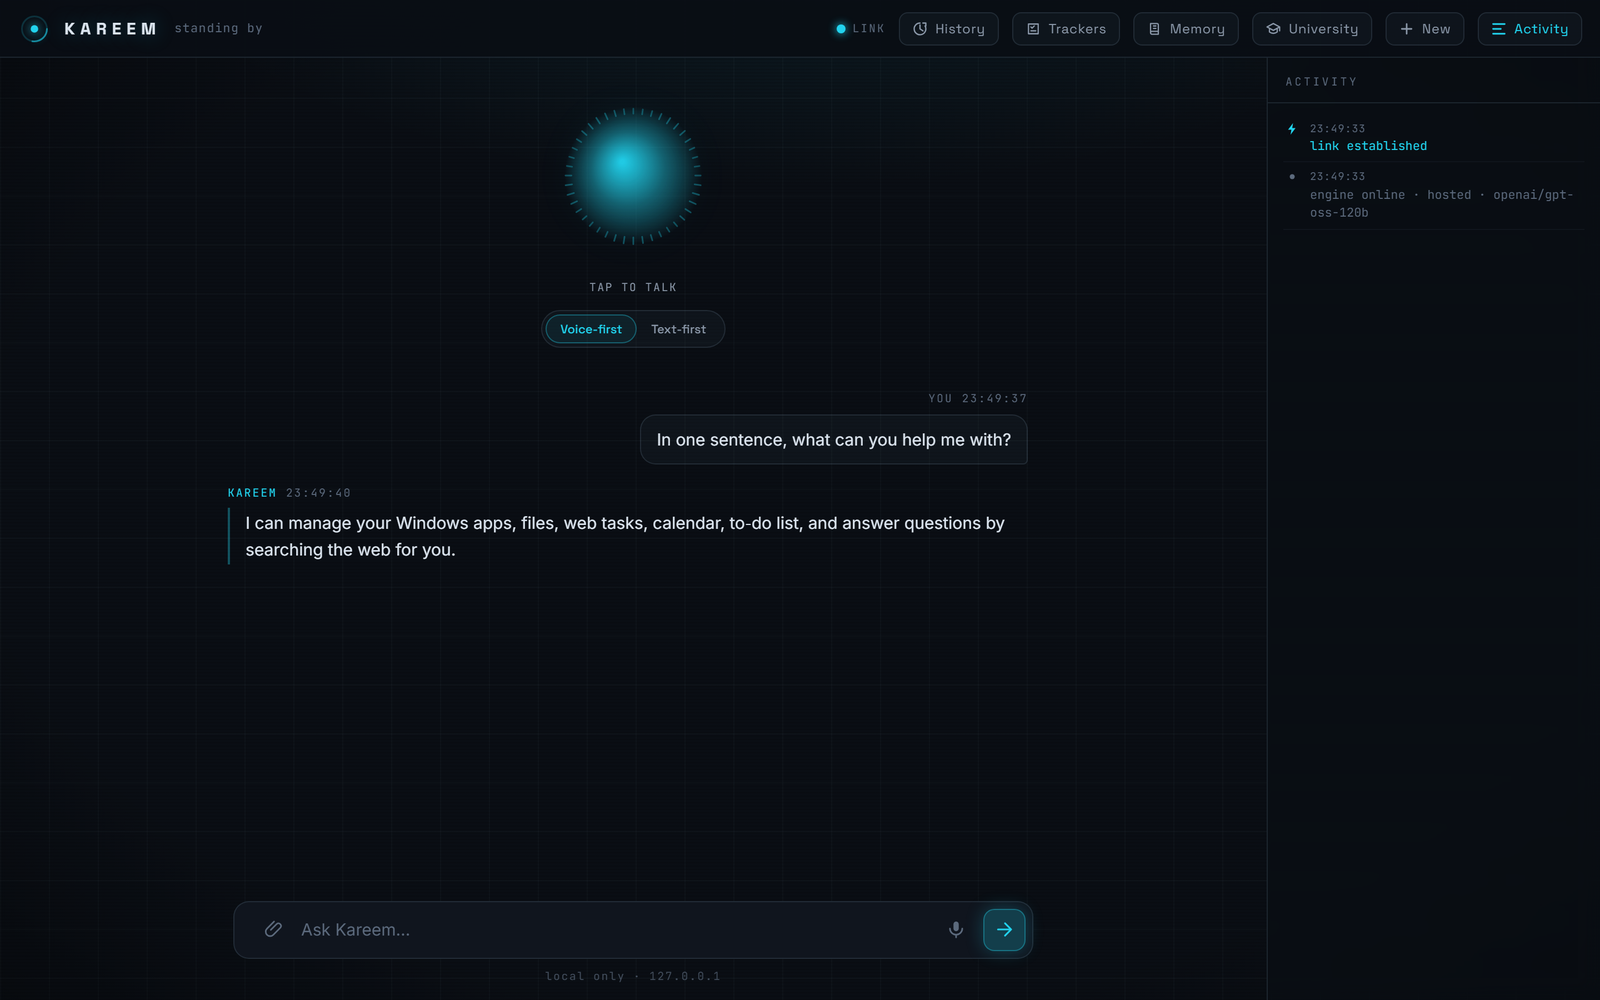
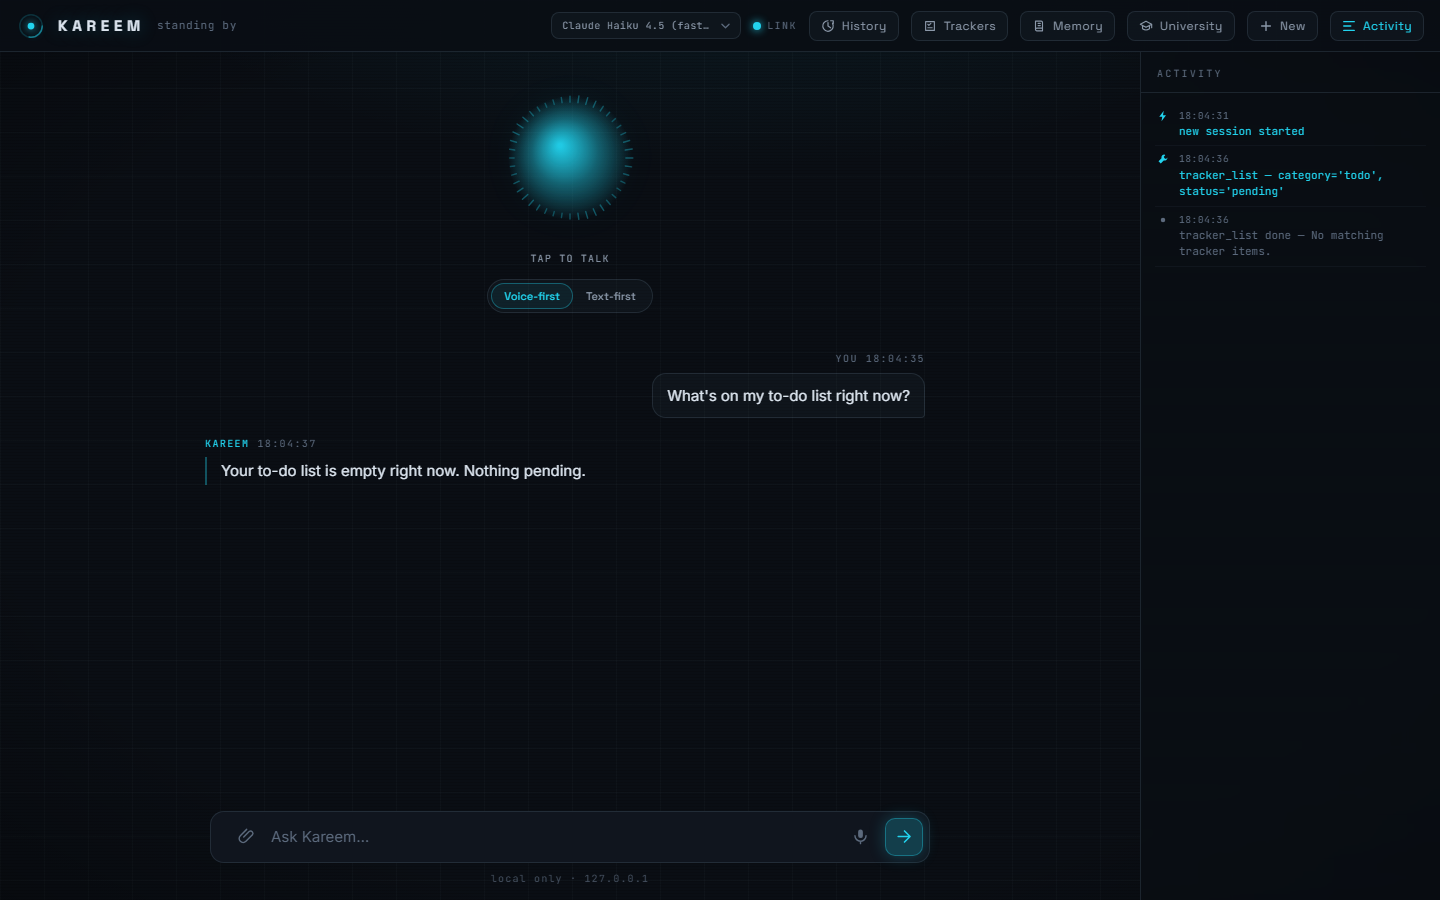
README: current screenshots, accurate defaults, known limitations
Pre-publish accuracy pass -- README had drifted from reality across
several sessions of changes (Claude switch, cost tracking, reconnect-
calendar, model picker, wake-word suppression).

Screenshots: all 6 recaptured live against the real running app via
Playwright (hero, chat, activity-rail, university, trackers, and a
new model-picker shot). Deliberately avoided real financial data --
the Trackers "Custom" tab has actual tuition/finance line items
pulled from GUC, too sensitive for a public screenshot, so that shot
stays on the (currently empty) To-dos tab where the real point --
the Reconnect Calendar widget -- is still fully visible. All QA-test
debris (leftover tracker items, a demo memory fact) was cleaned out
of the real data before and after capturing.

Content updates:
- Leads with Claude Haiku 4.5 as the actual default brain (was still
  describing "a free hosted cloud model" as default throughout)
- New "Switching brains from the website" section + screenshot for
  the model picker (all 5 options, live-switching, never leaves
  Kareem brainless on a bad choice)
- New "Cost tracking" section
- Reconnect Calendar button documented in the Google Calendar section
  and the data-clearing table
- Restructured the brain sections: "Claude, the default brain" (was
  "The fast free brain (the default)", still describing Groq) with
  "The free hosted brain" and "Switching to fully-local" as the two
  free alternatives underneath
[…]

diff --git a/README.md b/README.md
@@ -3,10 +3,12 @@
 ![Kareem's main screen — a dark HUD interface with a glowing cyan orb, ready to chat](docs/screenshots/hero.png)
 
 Kareem is a voice + text assistant that runs on your own PC. By default it
-thinks with a **free hosted cloud model** (fast — it runs on the provider's
-GPU, not your laptop). Two other brains are one config line away: a fully
-**offline local model** via Ollama (private, free, slower) and the **Claude
-API** (smartest, paid).
+thinks with **Claude Haiku 4.5** (Anthropic's API — smartest and most
+reliable at following instructions and picking tool parameters correctly,
+paid per use). Two other brains are one config line away — or one click in
+the web UI's model picker (top bar): a **free hosted cloud model** (fast —
+runs on the provider's GPU, not your laptop) and a fully **offline local
+model** via Ollama (private, free, slower).
 
 > **Requires Windows.** Desktop/app control, the background tray service, and
 > several voice components use Windows-specific APIs (PowerShell, Windows UI
@@ -63,6 +65,12 @@ The first calendar command opens your browser for one-time Google consent.
 Kareem then stores `token.json` locally and refreshes access silently. Both
 credential files are ignored by Git.
 
+If the connection ever expires or breaks (e.g. `token.json` gets deleted or
+Google revokes it), open the **Trackers** panel — a status pill at the top
+shows CONNECTED / EXPIRED / ERROR, with a one-click **Reconnect Calendar**
+button next to it that deletes the stale token and re-runs the consent flow.
+No need to dig through files by hand.
+
 ### GUC integration (optional, institution-specific)
 
 Kareem can automatically check CMS, the Student Portal, and Mail/OWA for new
@@ -96,8 +104,8 @@ whatever else you ask Kareem to track. Add, complete, or delete items from
 the panel, or just ask Kareem in chat ("add a to-do to…", "what's on my
 plate this week?").
 
-![The Trackers panel showing a populated custom list of real course deadlines and announcements](docs/screenshots/trackers.png)
-*A populated custom list — course deadlines and announcements Kareem pulled in automatically.*
+![The Trackers panel, showing the calendar connection status and Reconnect Calendar button above the tabs](docs/screenshots/trackers.png)
+*The calendar connection status lives right above the tabs — a one-click Reconnect Calendar button if it ever needs it.*
 
 ## Three ways to talk to it
 
@@ -108,7 +116,9 @@ plate this week?").
    a live feed of what Kareem is doing, Confirm/Cancel buttons for risky
    actions, and a mic button (browser voice — best in Chrome/Edge; replies to
    spoken messages are read aloud). Only this PC can reach it — it is never
-   exposed to the network.
+   exposed to the network. (The wake word only listens when no browser tab
+   already has the site open — if you're already looking at it, saying "hey
+   kareem" again does nothing, on purpose. The hotkey always works regardless.)
 2. **Type** in the console window (works exactly as before).
 3. **Voice in the console** — set `WAKE_OPENS_WEB = False` in
    `kareem/config.py` to make the wake word/hotkey talk out loud like it used
@@ -122,6 +132,29 @@ All three share ONE conversation — you can mix them freely.
 ![Close-up of the activity rail showing a tool call and its result](docs/screenshots/activity-rail.png)
 *Every tool call is traced live in that feed — here, `tracker_list` fetching a to-do.*
 
+### Switching brains from the website
+
+The dropdown in the top bar (next to the connection light) switches which
+brain answers — pick a Claude tier (Haiku 4.5 / Sonnet 5 / Opus 5) or jump
+straight to the free hosted brain or fully-local Ollama, without touching a
+config file or restarting Kareem. Picking an option actually builds that
+brain first (checks the API key, pings Ollama, …) before switching — a bad
+choice reports why and leaves the previous brain running, it never leaves
+Kareem unable to answer. This is runtime-only: a restart reverts to whatever
+`BRAIN` is set to in `kareem/config.py`, so treat the config file as the
+real default and the dropdown as a temporary override.
+
+![The model picker dropdown open, showing all five brain/model options](docs/screenshots/model-picker.png)
+*Every option actually switches the running brain — not just a label.*
+
+### Cost tracking (Claude brain only)
+
+Every Claude API call logs its approximate input/output token count and
+estimated cost to `kareem.log`, plus a running session and daily total — no
+setup needed, and it's the only brain that costs anything per use (Groq's
+hosted brain and Ollama are both free). This is an estimate for visibility,
+not a billing record; check your Anthropic console for exact usage.
+
 ---
 
 ## Part 1 — One-time setup
@@ -132,18 +165,22 @@ All three share ONE conversation — you can mix them freely.
 3. **Playwright's browser** (needed for browser control and the GUC
    integration) — run: `playwright install chromium`
 4. **ffmpeg** (voice only) — run `winget install ffmpeg`, then reopen the terminal.
-5. **A free Groq key**, for the default hosted brain (more on this in
-   [The fast free brain](#the-fast-free-brain-the-default) below) — sign up
-   at https://console.groq.com (free, no card), copy `.env.example` to `.env`
-   in this folder, and paste the key in as `HOSTED_API_KEY`.
+5. **A Claude API key**, for the default brain (more on this in
+   [Claude, the default brain](#claude-the-default-brain) below) — get one at
+   https://console.anthropic.com/settings/keys, copy `.env.example` to `.env`
+   in this folder, and paste the key in as `CLAUDE_API_KEY`. Costs money per
+   use (see [Cost tracking](#cost-tracking-claude-brain-only) above).
 6. Check everything: `run_kareem --check` (or `python main.py --check`) —
    fix anything marked `[FAIL]` using the hint it prints.
 
-Prefer everything to stay fully offline and private instead? Skip step 5 —
-see [Switching back to fully-local](#switching-back-to-fully-local-offline-private),
-no Groq key needed at all that way. (Even with the hosted brain, installing
-[Ollama](https://ollama.com) is worthwhile as a fallback: Kareem automatically
-uses it if the hosted brain is ever unreachable — entirely optional.)
+Prefer free instead of paying per use? Skip step 5 and switch `BRAIN` in
+`kareem/config.py` — `"hosted"` for a free cloud model (needs a free Groq
+key, see [The free hosted brain](#the-free-hosted-brain) below) or
+`"ollama"` for fully offline/private with no key at all, see
+[Switching to fully-local](#switching-to-fully-local-offline-private).
+(Either way, installing [Ollama](https://ollama.com) is worth doing anyway:
+Kareem automatically falls back to it if the hosted brain is ever
+unreachable — entirely optional, and irrelevant if you stay on Claude.)
 
 ### Kokoro voice (the default)
 
@@ -265,8 +302,12 @@ page refresh apart from an actual close, so refreshing doesn't quit it.)
 
 Open `kareem/config.py` in Notepad — every setting is explained in comments:
 
-- `BRAIN` — `"hosted"` (free cloud, default), `"ollama"` (free, local,
-  offline), or `"claude"` (paid API)
+- `BRAIN` — `"claude"` (Anthropic API, default, paid), `"hosted"` (free
+  cloud), or `"ollama"` (free, local, offline). Switchable live from the
+  web UI's model picker too — see [Switching brains from the
+  website](#switching-brains-from-the-website) above.
+- `CLAUDE_MODEL` — which Claude tier: Haiku 4.5 (default, fast/cheap),
+  Sonnet 5 (balanced), or Opus 5 (smartest, priciest)
 - `OLLAMA_MODEL` — which local model to use
 - `VOICE_ENABLED` — master switch for all voice features
 - `TTS_ENGINE`, `TTS_VOICE`, `TTS_SPEED` — speaking voice and speed
@@ -279,13 +320,41 @@ What Kareem treats as "risky" (= asks before doing) is listed in
 
 ---
 
-## The fast free brain (the default)
+## Claude, the default brain
 
-The default brain is a free hosted model on **Groq**
-(`openai/gpt-oss-120b`) — Groq's chips answer with sub-second first-token
-latency, so replies start almost instantly and Kareem begins **speaking the
-first sentence while the rest is still being written** (streaming; turn off
-with `STREAMING = False` in config). One-time setup:
+Kareem's default brain is **Claude Haiku 4.5**, over the Anthropic API —
+it follows instructions and picks tool parameters far more consistently
+than a free model, at the cost of paying per use. One-time setup:
+
+1. Get an API key at **https://console.anthropic.com/settings/keys**.
+2. Copy `.env.example` to a file named `.env` in this folder (if it isn't
+   there already) and paste your key:
+   ```
+   CLAUDE_API_KEY=sk-ant-...your-key...
+   ```
+3. Run `run_kareem --check` — it should say the key was found.
+
+**Model tier:** `CLAUDE_MODEL` in `kareem/config.py` picks Haiku 4.5
+(default — fast and cheap), Sonnet 5 (balanced), or Opus 5 (smartest,
+priciest) — or switch tiers live from the web UI's model picker without
+touching the file at all, see [Switching brains from the
+website](#switching-brains-from-the-website) above.
+
+**Cost:** see [Cost tracking](#cost-tracking-claude-brain-only) above —
+Kareem logs an approximate per-call cost and running totals so usage isn't
+a surprise.
+
+Prefer free instead? Two alternatives, either one a config line away (or
+a click in the model picker):
+
+### The free hosted brain
+
+A free hosted model on **Groq** (`openai/gpt-oss-120b`) — Groq's chips
+answer with sub-second first-token latency, so replies start almost
+instantly and Kareem begins **speaking the first sentence while the rest is
+still being written** (streaming; turn off with `STREAMING = False` in
+config). Reliable, but has a real capability ceiling below Claude's —
+expect occasional wrong tool calls or misread requests. One-time setup:
 
 1. Sign up at **https://console.groq.com** (free, no credit card) and create
    an API key.
@@ -294,7 +363,8 @@ with `STREAMING = False` in config). One-time setup:
    ```
    HOSTED_API_KEY=gsk_...your-key...
    ```
-3. Run `run_kareem --check` — it should say the key was found.
+3. In `kareem/config.py`, set `BRAIN = "hosted"`.
+4. Run `run_kareem --check` — it should say the key was found.
 
 **How the model id works:** in `kareem/config.py`, `HOSTED_BASE_URL` picks
 the provider and `HOSTED_MODEL` picks the model on that provider. The config
@@ -307,15 +377,24 @@ daily token caps — plenty for personal use. If you ever hit them, Kareem
 waits and retries automatically; if the endpoint stays unreachable and
 Ollama is running locally, it answers with the local model instead and
 prints a note saying so (`HOSTED_FALLBACK_TO_OLLAMA` in config turns this
-off).
+off). This automatic fallback is specific to the hosted brain — Claude has
+no equivalent fallback.
+
+Prefer fully local instead? See [Switching to fully-local (offline,
+private)](#switching-to-fully-local-offline-private) below — no key needed
+at all, nothing leaves your PC.
 
 **Privacy note:** a few things Kareem does leave your PC, depending on what
 you use:
-- **The hosted brain** (default): the *text* of your conversation is sent to
-  the provider's servers (Groq, or whichever `HOSTED_BASE_URL` you configure).
+- **The active brain**: the *text* of your conversation is sent to that
+  brain's provider — Anthropic (Claude, the default), or Groq/whichever
+  `HOSTED_BASE_URL` you configure if you switch to the hosted brain. The
+  fully-local Ollama brain sends nothing anywhere.
 - **The vision-click fallback** (`kareem/tools/vision.py`, last resort for
-  clicking something on screen): a screenshot of your primary monitor is sent
-  to Groq's vision model.
+  clicking something on screen): a screenshot of your primary monitor is
+  sent to Groq's vision model, regardless of which brain is active — a
+  fixed vision-capable model is needed for this to work at all, so it
+  always uses Groq even if you're on Claude or Ollama for everything else.
 - **Web search** (`web_search`/`fetch_page`): your query, and any page URL
   you ask Kareem to fetch, goes to DuckDuckGo / that page's own server.
 - **Google Calendar** (if connected): event details you create/read go to
@@ -338,8 +417,9 @@ stored, where, and how to clear it:
 | Durable remembered facts ("remember that…") | `data/memory.json` | Delete facts from the Memory panel, or delete the file |
 | To-dos/reminders/tracker items | `data/trackers.json` | Delete items from the Trackers panel, or delete the file |
 | GUC check history/login state (only if GUC is configured) | `data/guc_check_history.json`, `data/guc_login_state.json` | Delete the files |
+| Approximate Claude token usage/cost log (only if `BRAIN = "claude"`) | `data/claude_usage.json` | Delete the file |
 | Every action Kareem takes (for debugging) | `kareem.log` | Delete the file |
-| Google Calendar authorization | `token.json` | Delete the file — Kareem asks you to reconnect next time it's needed |
+| Google Calendar authorization | `token.json` | Use the Trackers panel's **Reconnect Calendar** button, or delete the file by hand — either way Kareem re-runs consent next time it's needed |
 
 Kareem doesn't automatically expire or delete any of this — it's yours to
 manage. Any of these files/folders are recreated automatically the next
@@ -347,7 +427,7 @@ time they're needed, so deleting them is always safe.
 
 ---
 
-## Switching back to fully-local (offline, private)
+## Switching to fully-local (offline, private)
 
 1. Install [Ollama](https://ollama.com), then run:
    ```
@@ -362,23 +442,10 @@ time they're needed, so deleting them is always safe.
    ```
 
 That's the whole switch — same tools, same safety gate, no internet needed,
-nothing leaves your PC. Change it back to `"hosted"` anytime.
-
----
-
-## Switching to Claude (optional, paid)
-
-1. Copy `.env.example` to a new file named `.env` in this folder.
-2. Get an API key from https://console.anthropic.com/settings/keys and put it
-   in `.env`: `CLAUDE_API_KEY=sk-ant-…`
-3. In `kareem/config.py` set `BRAIN = "claude"`.
-4. Run `run_kareem` (or `python main.py`) as usual.
-
-Everything else — tools, safety confirmations, voice — works identically.
-Switch back anytime with `BRAIN = "hosted"` (the default, also free) or
-`BRAIN = "ollama"` (fully offline, also free). Claude is the only one of the
-three that bills per use, through your Anthropic account. Your key lives
-only in `.env`, which is never committed or shared.
+nothing leaves your PC. Ollama's tool-calling reliability is a step below
+Claude's, and it's noticeably slower on CPU. Change it back to `"claude"`
+(the default) anytime, or to `"hosted"` for the free cloud option — see
+[Claude, the default brain](#claude-the-default-brain) above.
 
 ---
 
@@ -388,12 +455,13 @@ only in `.env`, which is never committed or shared.
 Kareem/
   main.py                # entrypoint — run this
   requirements.txt       # Python packages
-  .env.example           # copy to .env and add a key (Groq by default,
-                          # or Anthropic's if you switch to the Claude brain)
+  .env.example           # copy to .env and add a key (Anthropic's by
+                          # default, or Groq's if you switch to the hosted brain)
   kareem.log             # every action Kareem takes is recorded here
   kareem/
     config.py            # <-- the file you edit to change settings
-    brain.py             # Ollama / Claude connection + tool-calling loop
+    brain.py             # Claude / hosted / Ollama connections + tool-calling loop
+    cost.py              # approximate Claude token usage/cost logging
     agent.py             # chat loop + tool dispatch
     safety.py            # the confirmation gate + action log
     voice/               # tts, stt, wake word, mic recording, controller
@@ -403,6 +471,36 @@ Kareem/
       static/            # the page itself — plain index.html / styles.css /
                          # app.js, editable by hand, no build tools
 ```
+
+---
+
+## Known limitations
+
+- **No authentication on voice or hotkey input.** Anyone within earshot of
+  the mic, or with access to the keyboard, can talk to Kareem and trigger
+  anything it can do — there's no identity check, no PIN, no wake-word
+  voice matching. The confirmation gate stops a destructive action from
+  happening *silently*, but it doesn't stop a stranger from asking in the
+  first place. Treat Kareem like any other always-listening device on your
+  desk: it's as trusted as the room it's sitting in.
+- **Claude can occasionally report success without actually acting.**
+  Observed specifically with marking to-do items complete
+  (`tracker_complete`): Claude sometimes replies "done, marked as
+  complete" without the underlying item actually changing status — verified
+  by checking the tracker data directly, not just trusting the reply. This
+  is model behavior, not something Kareem's code can fully prevent; if an
+  action matters, check the actual list/calendar/tracker rather than taking
+  the reply at face value.
+- **`close_app` can't always tell an app closed within its own wait
+  window.** It genuinely verifies the process exited rather than guessing,
+  but some apps (modern/UWP-style ones especially) can take longer than the
+  wait window to fully terminate — an honest "didn't actually close" report
+  in that case doesn't necessarily mean the close request failed, just that
+  it hadn't finished yet.
+- **The vision-click fallback is inherently the least reliable layer.** It
+  depends on a preview-tier vision model and pixel-estimated clicks, not
+  confirmed UI elements — expect occasional misses, by design of the
+  approach, not a bug to report.
 
 ---
 
@@ -416,7 +514,14 @@ Kareem/
   folder) instead of a bare `python main.py` — it always finds the right
   one. `run_kareem --check` gives the full diagnostic.
 
-**Using the default hosted brain (Groq):**
+**Using the default Claude brain:**
+- **"No CLAUDE_API_KEY found"** — copy `.env.example` to `.env` and paste
+  in a key from https://console.anthropic.com/settings/keys.
+- **Want to check current usage/cost** — see `kareem.log` for a running
+  session/day total (search for `claude_usage`), or your Anthropic console
+  for exact billing.
+
+**If you've switched to the hosted brain (`BRAIN = "hosted"`):**
 - **"No HOSTED_API_KEY in .env"** — copy `.env.example` to `.env` and paste
   in a key from https://console.groq.com (free, no card).
 - **Kareem says the hosted brain is unavailable and falls back** — Groq is
